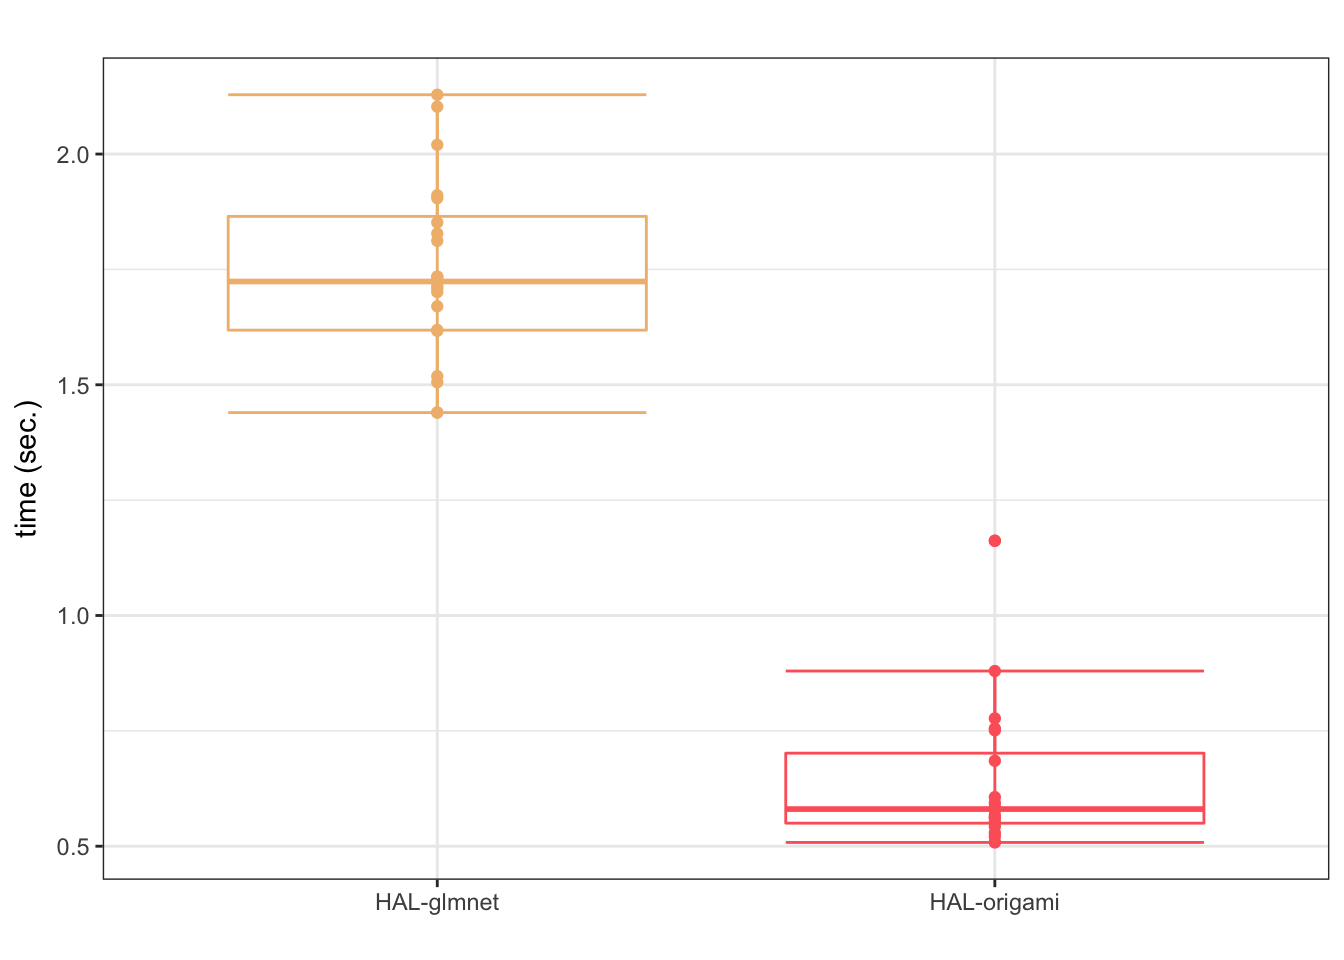
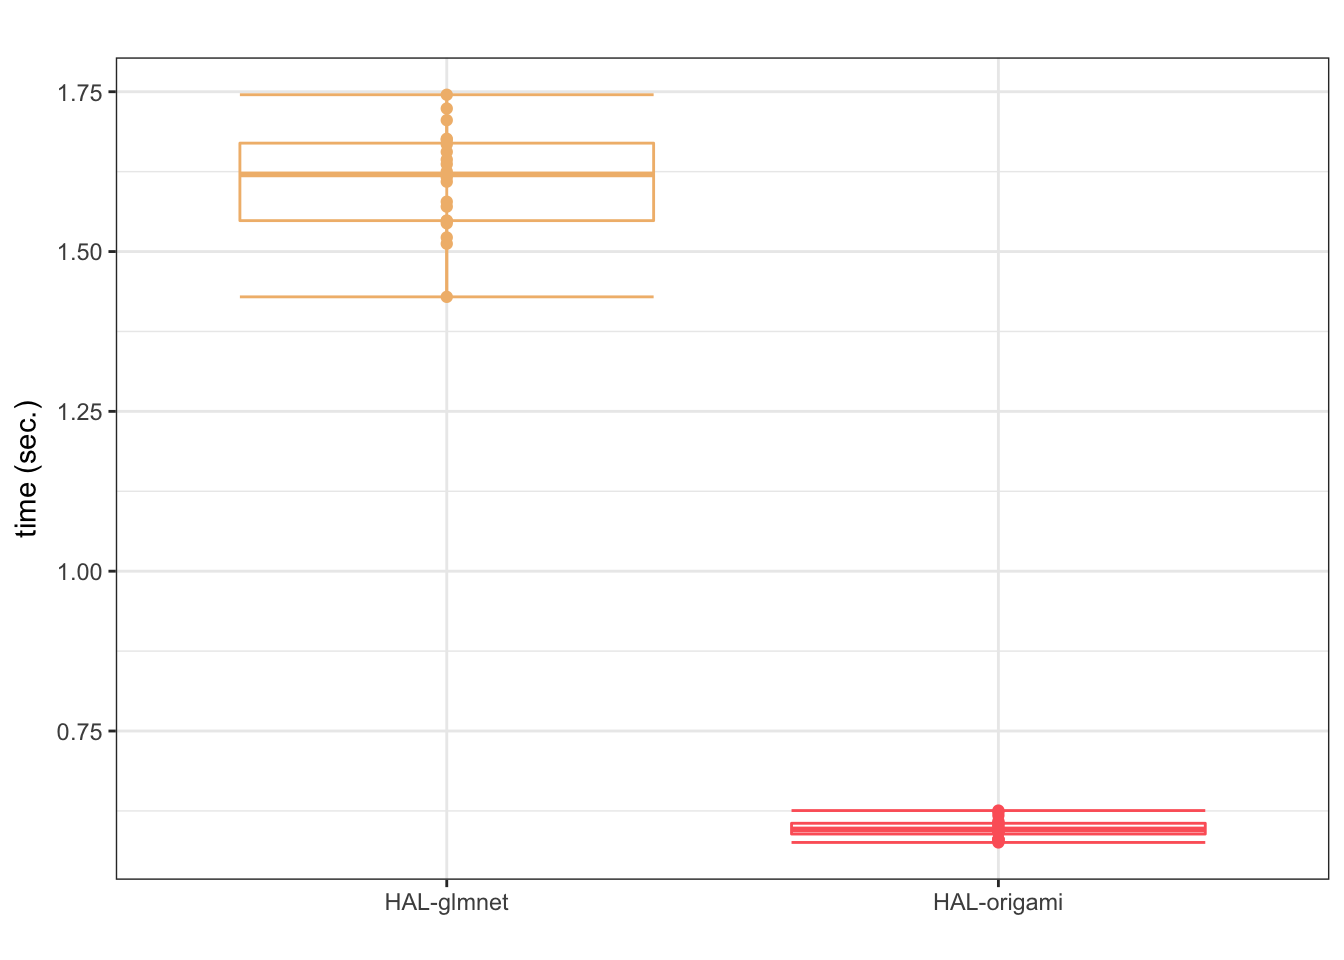
fix docs; update site

diff --git a/docs/articles/benchmarks_hal9001.html b/docs/articles/benchmarks_hal9001.html
@@ -110,10 +110,10 @@
 <pre><code>## [1] "Dave, this conversation can serve no purpose anymore. Goodbye."</code></pre>
 <pre class="sourceCode r" id="cb5"><code class="sourceCode r"><div class="sourceLine" id="cb5-1" data-line-number="1">glmnet_hal_fit<span class="op">$</span>times</div></code></pre>
 <pre><code>##                   user.self sys.self elapsed user.child sys.child
-## design_matrix         0.006    0.000   0.006          0         0
-## remove_duplicates     0.008    0.001   0.008          0         0
-## lasso                 0.863    0.012   0.888          0         0
-## total                 0.877    0.013   0.902          0         0</code></pre>
+## design_matrix         0.003    0.000   0.003          0         0
+## remove_duplicates     0.005    0.000   0.006          0         0
+## lasso                 0.850    0.015   0.880          0         0
+## total                 0.858    0.015   0.889          0         0</code></pre>
 <pre class="sourceCode r" id="cb7"><code class="sourceCode r"><div class="sourceLine" id="cb7-1" data-line-number="1"><span class="co"># training sample prediction</span></div>
 <div class="sourceLine" id="cb7-2" data-line-number="2">preds_glmnet &lt;-<span class="st"> </span><span class="kw">predict</span>(glmnet_hal_fit, <span class="dt">new_data =</span> x)</div>
 <div class="sourceLine" id="cb7-3" data-line-number="3">glmnet_hal_mse &lt;-<span class="st"> </span><span class="kw">mse</span>(preds_glmnet, y)</div>
@@ -126,10 +126,10 @@
 <pre><code>## [1] "Dave, although you took very thorough precautions in the pod against my hearing you, I could see your lips move."</code></pre>
 <pre class="sourceCode r" id="cb10"><code class="sourceCode r"><div class="sourceLine" id="cb10-1" data-line-number="1">origami_hal_fit<span class="op">$</span>times</div></code></pre>
 <pre><code>##                   user.self sys.self elapsed user.child sys.child
-## design_matrix         0.003    0.000   0.003          0         0
+## design_matrix         0.003    0.000   0.004          0         0
 ## remove_duplicates     0.001    0.000   0.001          0         0
-## lasso                 1.178    0.138   1.445          0         0
-## total                 1.182    0.138   1.449          0         0</code></pre>
+## lasso                 1.212    0.148   1.509          0         0
+## total                 1.216    0.148   1.514          0         0</code></pre>
 <pre class="sourceCode r" id="cb12"><code class="sourceCode r"><div class="sourceLine" id="cb12-1" data-line-number="1"><span class="co"># training sample prediction</span></div>
 <div class="sourceLine" id="cb12-2" data-line-number="2">preds_origami &lt;-<span class="st"> </span><span class="kw">predict</span>(origami_hal_fit, <span class="dt">new_data =</span> x)</div>
 <div class="sourceLine" id="cb12-3" data-line-number="3">origami_hal_mse &lt;-<span class="st"> </span><span class="kw">mse</span>(preds_origami, y)</div>
@@ -163,9 +163,9 @@
 <pre class="sourceCode r" id="cb15"><code class="sourceCode r"><div class="sourceLine" id="cb15-1" data-line-number="1">
 <span class="kw">summary</span>(mb_hal_origami)</div></code></pre>
 <pre><code>##                                                             expr       min
-## 1 hal_fit_origami &lt;- fit_hal(Y = y, X = x, fit_type = "origami") 0.3302871
-##          lq      mean    median        uq       max neval
-## 1 0.3432187 0.3730944 0.3549583 0.3630897 0.6483937    20</code></pre>
+## 1 hal_fit_origami &lt;- fit_hal(Y = y, X = x, fit_type = "origami") 0.3260198
+##          lq      mean   median        uq      max neval
+## 1 0.3376284 0.3793765 0.352608 0.3675487 0.658299    20</code></pre>
 <pre class="sourceCode r" id="cb17"><code class="sourceCode r"><div class="sourceLine" id="cb17-1" data-line-number="1">mb_hal_glmnet &lt;-<span class="st"> </span><span class="kw">microbenchmark</span>(<span class="dt">unit =</span> <span class="st">"s"</span>, <span class="dt">times =</span> <span class="dv">20</span>,</div>
 <div class="sourceLine" id="cb17-2" data-line-number="2">  hal_fit_glmnet &lt;-<span class="st"> </span><span class="kw"><a href="../reference/fit_hal.html">fit_hal</a></span>(<span class="dt">Y =</span> y, <span class="dt">X =</span> x, <span class="dt">fit_type =</span> <span class="st">"glmnet"</span>)</div>
 <div class="sourceLine" id="cb17-3" data-line-number="3">)</div></code></pre>
@@ -192,9 +192,9 @@
 <pre class="sourceCode r" id="cb19"><code class="sourceCode r"><div class="sourceLine" id="cb19-1" data-line-number="1">
 <span class="kw">summary</span>(mb_hal_glmnet)</div></code></pre>
 <pre><code>##                                                           expr       min
-## 1 hal_fit_glmnet &lt;- fit_hal(Y = y, X = x, fit_type = "glmnet") 0.4451928
+## 1 hal_fit_glmnet &lt;- fit_hal(Y = y, X = x, fit_type = "glmnet") 0.4566711
 ##          lq     mean    median        uq       max neval
-## 1 0.4633435 0.480852 0.4762332 0.4897189 0.5822098    20</code></pre>
+## 1 0.4787322 0.505392 0.4947093 0.5284646 0.6145925    20</code></pre>
 <pre class="sourceCode r" id="cb21"><code class="sourceCode r"><div class="sourceLine" id="cb21-1" data-line-number="1"><span class="co"># visualize</span></div>
 <div class="sourceLine" id="cb21-2" data-line-number="2">p_fit_times &lt;-<span class="st"> </span><span class="kw">rbind</span>(mb_hal_origami, mb_hal_glmnet) <span class="op">%&gt;%</span>
 </div>
@@ -272,8 +272,8 @@
 <span class="kw">summary</span>(mb_hal_origami_estimateG)</div></code></pre>
 <pre><code>##                                                                                                         expr
 ## 1 hal_origami_estimateG &lt;- fit_hal(Y = as.numeric(dat$A0 == abar[1]),      X = dat$L0, fit_type = "origami")
-##         min        lq      mean    median        uq      max neval
-## 1 0.5081802 0.5475576 0.6403924 0.5805278 0.7181729 1.161991    20</code></pre>
+##         min        lq      mean    median        uq       max neval
+## 1 0.5756932 0.5861575 0.5973188 0.5959953 0.6059783 0.6255723    20</code></pre>
 <pre class="sourceCode r" id="cb27"><code class="sourceCode r"><div class="sourceLine" id="cb27-1" data-line-number="1">mb_hal_glmnet_estimateG &lt;-<span class="st"> </span><span class="kw">microbenchmark</span>(<span class="dt">unit =</span> <span class="st">"s"</span>, <span class="dt">times =</span> <span class="dv">20</span>,</div>
 <div class="sourceLine" id="cb27-2" data-line-number="2">  hal_glmnet_estimateG &lt;-<span class="st"> </span><span class="kw"><a href="../reference/fit_hal.html">fit_hal</a></span>(<span class="dt">Y =</span> <span class="kw">as.numeric</span>(dat<span class="op">$</span>A0 <span class="op">==</span><span class="st"> </span>abar[<span class="dv">1</span>]),</div>
 <div class="sourceLine" id="cb27-3" data-line-number="3">                                  <span class="dt">X =</span> dat<span class="op">$</span>L0,</div>
@@ -303,8 +303,8 @@
 <span class="kw">summary</span>(mb_hal_glmnet_estimateG)</div></code></pre>
 <pre><code>##                                                                                                       expr
 ## 1 hal_glmnet_estimateG &lt;- fit_hal(Y = as.numeric(dat$A0 == abar[1]),      X = dat$L0, fit_type = "glmnet")
-##        min       lq    mean   median       uq      max neval
-## 1 1.439767 1.617875 1.74795 1.723827 1.878073 2.128569    20</code></pre>
+##        min       lq     mean   median       uq      max neval
+## 1 1.429134 1.548246 1.611663 1.620698 1.671286 1.745309    20</code></pre>
 <pre class="sourceCode r" id="cb31"><code class="sourceCode r"><div class="sourceLine" id="cb31-1" data-line-number="1"><span class="co"># visualize</span></div>
 <div class="sourceLine" id="cb31-2" data-line-number="2">p_estimateG_times &lt;-<span class="st"> </span><span class="kw">rbind</span>(mb_hal_origami_estimateG,</div>
 <div class="sourceLine" id="cb31-3" data-line-number="3">                           mb_hal_glmnet_estimateG) <span class="op">%&gt;%</span>
@@ -380,8 +380,8 @@
 <span class="kw">summary</span>(mb_hal_origami_estimateQ)</div></code></pre>
 <pre><code>##                                                                             expr
 ## 1 hal_origami_estimateQ &lt;- fit_hal(Y = Y_estQ, X = X_estQ, fit_type = "origami")
-##         min        lq      mean   median        uq       max neval
-## 1 0.1311098 0.1372891 0.1510556 0.148516 0.1615881 0.1858021    20</code></pre>
+##         min       lq     mean    median        uq       max neval
+## 1 0.1532981 0.163054 0.179814 0.1734524 0.1825662 0.2752185    20</code></pre>
 <pre class="sourceCode r" id="cb36"><code class="sourceCode r"><div class="sourceLine" id="cb36-1" data-line-number="1">mb_hal_glmnet_estimateQ &lt;-<span class="st"> </span><span class="kw">microbenchmark</span>(<span class="dt">unit =</span> <span class="st">"s"</span>, <span class="dt">times =</span> <span class="dv">20</span>,</div>
 <div class="sourceLine" id="cb36-2" data-line-number="2">  hal_glmnet_estimateQ &lt;-<span class="st"> </span><span class="kw"><a href="../reference/fit_hal.html">fit_hal</a></span>(<span class="dt">Y =</span> Y_estQ,</div>
 <div class="sourceLine" id="cb36-3" data-line-number="3">                                  <span class="dt">X =</span> X_estQ,</div>
@@ -411,8 +411,8 @@
 <span class="kw">summary</span>(mb_hal_glmnet_estimateQ)</div></code></pre>
 <pre><code>##                                                                           expr
 ## 1 hal_glmnet_estimateQ &lt;- fit_hal(Y = Y_estQ, X = X_estQ, fit_type = "glmnet")
-##         min        lq      mean   median       uq       max neval
-## 1 0.1913058 0.2011302 0.2123034 0.211091 0.223035 0.2464445    20</code></pre>
+##         min       lq      mean    median        uq       max neval
+## 1 0.2258753 0.241342 0.2885499 0.2756127 0.3397102 0.3823258    20</code></pre>
 <pre class="sourceCode r" id="cb40"><code class="sourceCode r"><div class="sourceLine" id="cb40-1" data-line-number="1"><span class="co"># visualize</span></div>
 <div class="sourceLine" id="cb40-2" data-line-number="2">p_estimateQ_times &lt;-<span class="st"> </span><span class="kw">rbind</span>(mb_hal_origami_estimateQ,</div>
 <div class="sourceLine" id="cb40-3" data-line-number="3">                           mb_hal_glmnet_estimateQ) <span class="op">%&gt;%</span>
@@ -481,8 +481,8 @@
 <span class="kw">summary</span>(mb_hal_origami_sl_estimateG)</div></code></pre>
 <pre><code>##                                                                                                                                                expr
 ## 1 hal_origami_sl_estimateG &lt;- SuperLearner(Y = as.numeric(dat$A0 ==      abar[1]), X = dat$L0, SL.library = c("SL.speedglm", "SL.hal9001.origami"))
-##        min       lq     mean   median       uq      max neval
-## 1 5.456115 5.606268 5.768453 5.641793 5.820544 7.037404    20</code></pre>
+##        min       lq    mean   median       uq     max neval
+## 1 5.989014 6.010379 6.63428 6.058605 6.424414 10.8592    20</code></pre>
 <pre class="sourceCode r" id="cb52"><code class="sourceCode r"><div class="sourceLine" id="cb52-1" data-line-number="1">mb_hal_glmnet_sl_estimateG &lt;-<span class="st"> </span><span class="kw">microbenchmark</span>(<span class="dt">unit =</span> <span class="st">"s"</span>, <span class="dt">times =</span> <span class="dv">20</span>,</div>
 <div class="sourceLine" id="cb52-2" data-line-number="2">  hal_glmnet_sl_estimateG &lt;-<span class="st"> </span><span class="kw">SuperLearner</span>(<span class="dt">Y =</span> <span class="kw">as.numeric</span>(dat<span class="op">$</span>A0 <span class="op">==</span><span class="st"> </span>abar[<span class="dv">1</span>]),</div>
 <div class="sourceLine" id="cb52-3" data-line-number="3">                                          <span class="dt">X =</span> dat<span class="op">$</span>L0,</div>
@@ -495,7 +495,7 @@
 <pre><code>##                                                                                                                                              expr
 ## 1 hal_glmnet_sl_estimateG &lt;- SuperLearner(Y = as.numeric(dat$A0 ==      abar[1]), X = dat$L0, SL.library = c("SL.speedglm", "SL.hal9001.glmnet"))
 ##        min       lq     mean   median       uq      max neval
-## 1 13.14005 13.33463 13.95705 13.58024 14.46339 16.51849    20</code></pre>
+## 1 13.64942 13.94495 14.37158 14.19632 14.87847 15.54349    20</code></pre>
 <pre class="sourceCode r" id="cb54"><code class="sourceCode r"><div class="sourceLine" id="cb54-1" data-line-number="1"><span class="co"># visualize</span></div>
 <div class="sourceLine" id="cb54-2" data-line-number="2">p_sl_estimateG_times &lt;-<span class="st"> </span><span class="kw">rbind</span>(mb_hal_origami_sl_estimateG,</div>
 <div class="sourceLine" id="cb54-3" data-line-number="3">                              mb_hal_glmnet_sl_estimateG) <span class="op">%&gt;%</span>

diff --git a/docs/index.html b/docs/index.html
@@ -124,10 +124,10 @@ install.packages("hal9001")
 <div class="sourceLine" id="cb2-15" data-line-number="15"><span class="co">#&gt; [1] "Look Dave, I can see you're really upset about this. I honestly think you ought to sit down calmly, take a stress pill, and think things over."</span></div>
 <div class="sourceLine" id="cb2-16" data-line-number="16">hal_fit<span class="op">$</span>times</div>
 <div class="sourceLine" id="cb2-17" data-line-number="17"><span class="co">#&gt;                   user.self sys.self elapsed user.child sys.child</span></div>
-<div class="sourceLine" id="cb2-18" data-line-number="18"><span class="co">#&gt; design_matrix         0.003    0.001   0.003          0         0</span></div>
-<div class="sourceLine" id="cb2-19" data-line-number="19"><span class="co">#&gt; remove_duplicates     0.006    0.000   0.006          0         0</span></div>
-<div class="sourceLine" id="cb2-20" data-line-number="20"><span class="co">#&gt; lasso                 1.262    0.069   1.328          0         0</span></div>
-<div class="sourceLine" id="cb2-21" data-line-number="21"><span class="co">#&gt; total                 1.271    0.070   1.337          0         0</span></div>
+<div class="sourceLine" id="cb2-18" data-line-number="18"><span class="co">#&gt; design_matrix         0.004    0.001   0.005          0         0</span></div>
+<div class="sourceLine" id="cb2-19" data-line-number="19"><span class="co">#&gt; remove_duplicates     0.006    0.001   0.007          0         0</span></div>
+<div class="sourceLine" id="cb2-20" data-line-number="20"><span class="co">#&gt; lasso                 1.168    0.054   1.183          0         0</span></div>
+<div class="sourceLine" id="cb2-21" data-line-number="21"><span class="co">#&gt; total                 1.178    0.056   1.195          0         0</span></div>
 <div class="sourceLine" id="cb2-22" data-line-number="22"></div>
 <div class="sourceLine" id="cb2-23" data-line-number="23"><span class="co"># training sample prediction</span></div>
 <div class="sourceLine" id="cb2-24" data-line-number="24">preds &lt;-<span class="st"> </span><span class="kw">predict</span>(hal_fit, <span class="dt">new_data =</span> x)</div>

diff --git a/docs/reference/SL.hal9001.html b/docs/reference/SL.hal9001.html
@@ -129,6 +129,25 @@ functions ought to be generated. The default (<code>NULL</code>) corresponds to
 generating basis functions for the full dimensionality of the input matrix.</p></td>
     </tr>
     <tr>
+      <th>fit_type</th>
+      <td><p>The specific routine to be called when fitting the LASSO
+regression in a cross-validated manner. Choosing the <code>glmnet</code> option
+will result in a call to <code>cv.glmnet</code> while <code>origami</code> will produce
+a (faster) call to a custom routine based on the <code>origami</code> package.</p></td>
+    </tr>
+    <tr>
+      <th>n_folds</th>
+      <td><p>Integer for the number of folds to be used when splitting the
+data for cross-validation. This defaults to 10 as this is the convention for
+v-fold cross-validation.</p></td>
+    </tr>
+    <tr>
+      <th>use_min</th>
+      <td><p>Determines which lambda is selected from <code>cv.glmnet</code>.
+<code>TRUE</code> corresponds to <code>"lambda.min"</code> and <code>FALSE</code> corresponds
+to <code>"lambda.1se"</code>.</p></td>
+    </tr>
+    <tr>
       <th>family</th>
       <td><p>Not used by the function directly, but ensures compatibility
 with <code>SuperLearner</code>.</p></td>
